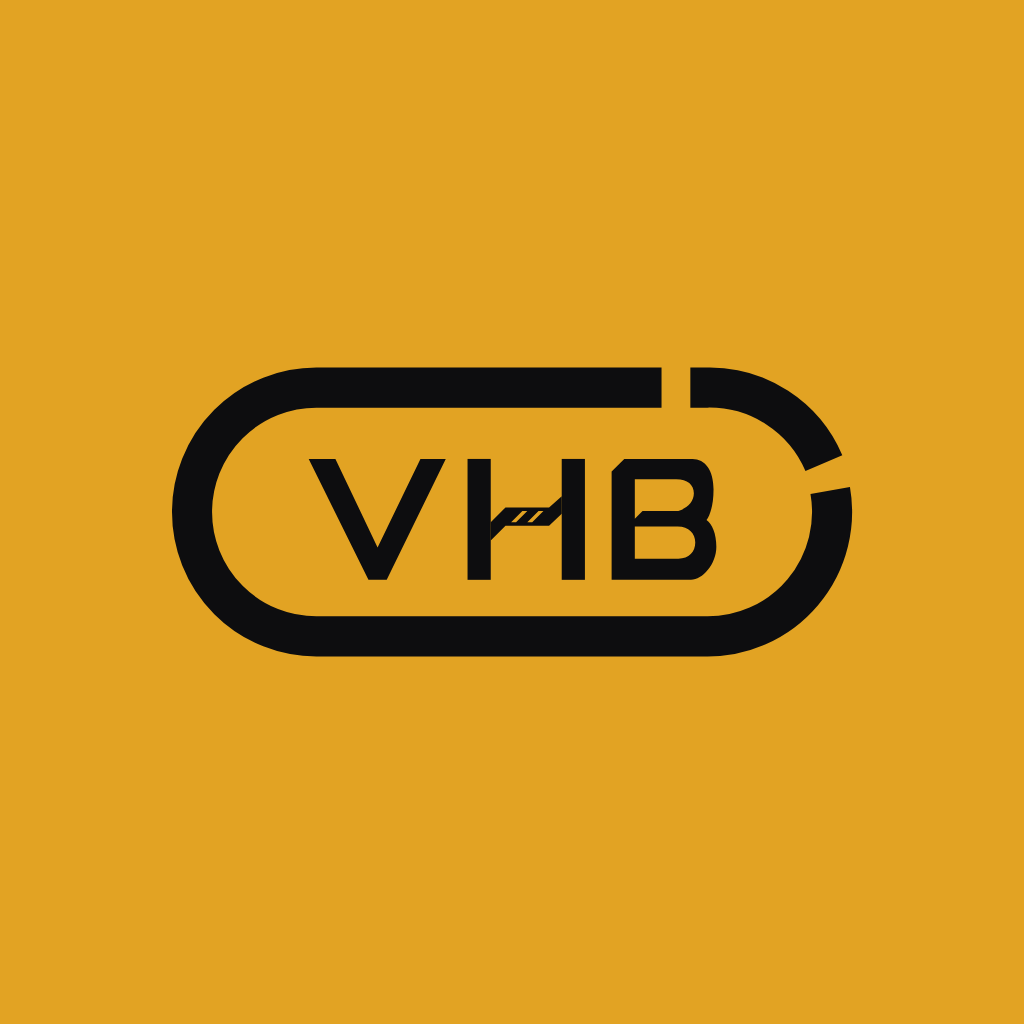
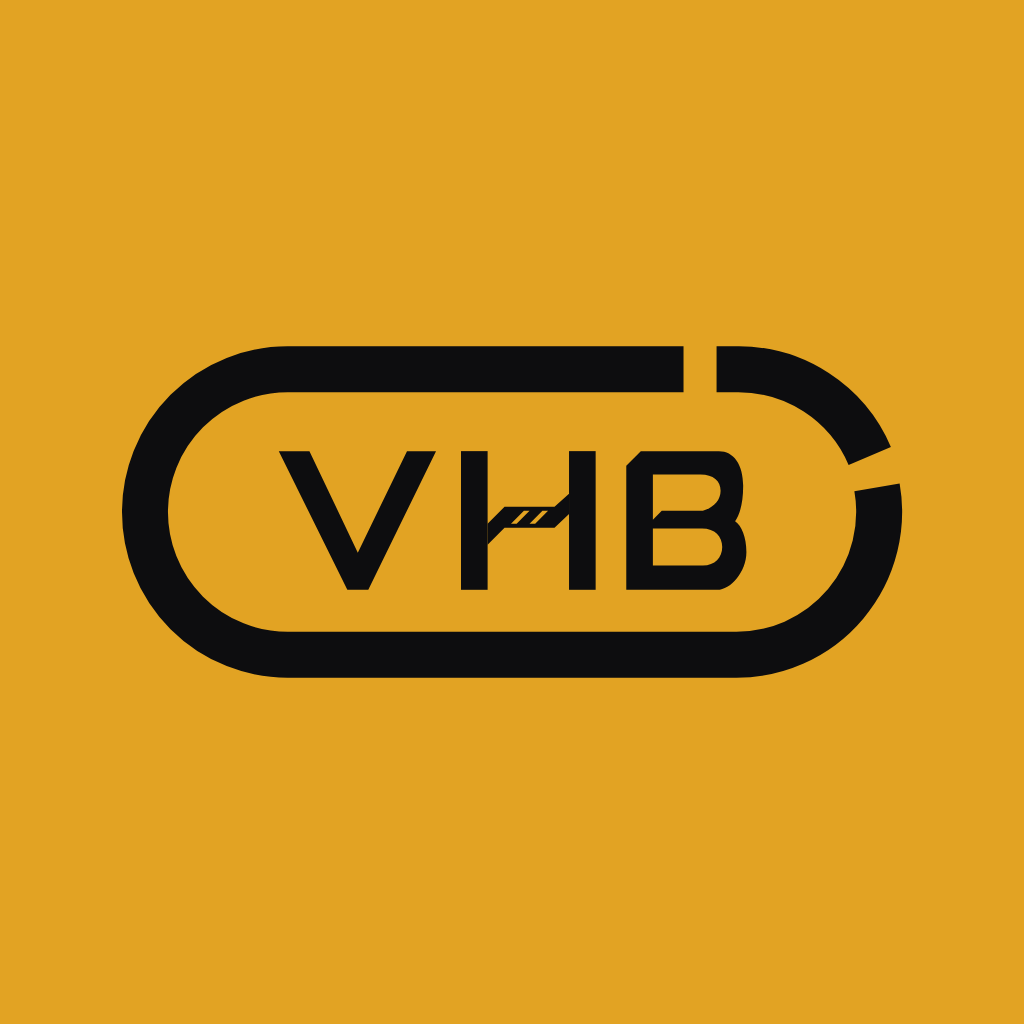
Puntjes 04-09: instellingen-rij, bel-icoon vóór de naam, geen lichte flits, nu-wijzer op de rail, groter app-icoon
1. Instellingen (mobiel): lang e-mailadres liep onder "Wachtwoord wijzigen"
   door — rij wikkelt nu (knop zakt eronder), tekst mag breken.
2. Vandaag-ingepland-lijst: bel-icoon in een vaste kolom vóór de naam, ook
   een lege kolom zonder nummer — alles uitgelijnd i.p.v. per naamlengte.
3. Start: zonder expliciete themakeuze begint de app met het laatst
   effectieve thema (rol-standaard donker) i.p.v. 'light' te forceren en
   de dark-klasse van het bootscript weg te halen tot het profiel er was.
4. Mijn dag: nu-markering is een kort gouden streepje op de rail (wijzer)
   met een fijne streepjesschaal langs het lopende blok en het "nu"-venster
   als lipje over de rechterrand; geen lijn meer dwars door de rij.
5. App-icoon: beeldmerk 760 → 880 op de 1024-tegel (maskable 680 → 780).

Changed region(s): [[0.0938, 0.3125, 0.9062, 0.6875]]

diff --git a/src/views/MijnDagView.tsx b/src/views/MijnDagView.tsx
@@ -236,14 +236,19 @@ export function MijnDagView({
               const pct = nuPct(rij);
               const eersteRij = i === 0;
               const laatsteRij = i === rijen.length - 1;
+              // Nu-markering (Jarno 04-09): geen lijn dwars door de rij, maar
+              // een kort gouden streepje op de rail (de wijzer op een
+              // radio-schaal) en het "nu"-venster als lipje óver de
+              // rechterrand van de kaart. De rail van het lopende blok krijgt
+              // een fijne streepjesschaal, zie hieronder.
               const nuLijn = pct !== null && (
                 <span
                   aria-hidden="true"
-                  className="pointer-events-none absolute inset-x-0 z-10 flex -translate-y-1/2 items-center gap-2"
+                  className="pointer-events-none absolute inset-x-0 z-10 flex -translate-y-1/2 items-center"
                   style={{ top: `${pct}%` }}
                 >
-                  <span className="h-0.5 flex-1 bg-oker-500" />
-                  <span className="mr-4 rounded-full bg-oker-500 px-2 py-0.5 text-2xs font-bold tabular-nums text-slate-950">
+                  <span className="ml-5 h-0.5 w-5 -translate-x-1 rounded-full bg-oker-500" />
+                  <span className="ml-auto -mr-2 rounded-full bg-oker-500 px-2 py-0.5 text-2xs font-bold tabular-nums text-slate-950 shadow-sm">
                     nu {nuLabel}
                   </span>
                 </span>
@@ -280,6 +285,16 @@ export function MijnDagView({
                       Gereden blokken dempen hun inhoud, niet de nu-lijn erover. */}
                   <span className={cn('relative flex w-3 shrink-0 justify-center', gereden && 'opacity-60')}>
                     <span className={cn('absolute left-1/2 w-px bg-slate-200', eersteRij && laatsteRij && 'hidden', eersteRij ? 'top-4' : 'top-0', laatsteRij ? 'h-4' : 'bottom-0')} />
+                    {/* Streepjesschaal (radio-wijzerplaat) langs het lopende blok:
+                        elke streep = een stukje dienst, de gouden wijzer schuift
+                        erlangs. Alleen decoratie; de voortgang zelf staat in de
+                        progressbar hieronder. */}
+                    {bezig && (
+                      <span
+                        className="absolute inset-y-4 left-1/2 w-2 -translate-x-1/2 opacity-70"
+                        style={{ backgroundImage: 'repeating-linear-gradient(to bottom, var(--color-slate-300) 0 1px, transparent 1px 7px)' }}
+                      />
+                    )}
                     <span
                       className={cn(
                         'relative mt-2.5 h-3 w-3 shrink-0 rounded-full',

diff --git a/src/views/PlannerDashboardWidgets.tsx b/src/views/PlannerDashboardWidgets.tsx
@@ -1254,22 +1254,26 @@ function DriverShiftRows({ items, emptyText }: { items: { id: string; name: stri
     <ul className="space-y-0.5">
       {items.map((d) => (
         <li key={d.id} className="flex items-center gap-3 rounded-xl px-3 py-2">
+          {/* Bel-icoon vóór de naam in een vaste kolom: achter de naam
+              sprong het per naamlengte heen en weer (Jarno 04-09). Zonder
+              nummer blijft de kolom leeg zodat de namen uitgelijnd blijven.
+              Klein tel-doelwit met marge-compensatie zodat de rij niet
+              hoger wordt (vraag Jarno 01-09). */}
+          {d.phone ? (
+            <a
+              href={telHref(d.phone)}
+              aria-label={`Bel ${d.name}`}
+              title={d.phone}
+              className="-my-1.5 -ml-1.5 inline-flex h-8 w-8 shrink-0 items-center justify-center self-start rounded-lg text-slate-400 transition-colors hover:bg-slate-100/80 hover:text-oker-700"
+            >
+              <Phone size={14} />
+            </a>
+          ) : (
+            <span aria-hidden="true" className="-ml-1.5 h-8 w-8 shrink-0" />
+          )}
           <span className="min-w-0 flex-1">
             <span className="flex items-center gap-1.5">
               <span className="truncate text-sm font-semibold text-slate-800">{d.name}</span>
-              {/* Meteen kunnen bellen (ziekmelding komt telefonisch binnen):
-                  klein tel-doelwit, met marge-compensatie zodat de rij niet
-                  hoger wordt (vraag Jarno 01-09). */}
-              {d.phone && (
-                <a
-                  href={telHref(d.phone)}
-                  aria-label={`Bel ${d.name}`}
-                  title={d.phone}
-                  className="-my-1.5 inline-flex h-8 w-8 shrink-0 items-center justify-center rounded-lg text-slate-400 transition-colors hover:bg-slate-100/80 hover:text-oker-700"
-                >
-                  <Phone size={14} />
-                </a>
-              )}
             </span>
             {/* Elk dienstblok als eigen element, met een stip ertussen en
                 flex-wrap: bij één of twee blokken staat het op één regel zoals

diff --git a/src/App.tsx b/src/App.tsx
@@ -358,13 +358,20 @@ export default function App() {
   const themaGekozenRef = useRef(false);
   useEffect(() => {
     let stored: string | null = null;
+    let effectief: string | null = null;
     try {
       stored = typeof window !== 'undefined' ? window.localStorage.getItem('vhb-theme') : null;
+      effectief = typeof window !== 'undefined' ? window.localStorage.getItem('vhb-theme-effectief') : null;
     } catch {
       // localStorage geblokkeerd (privacy-modus) — val terug op licht.
     }
     themaGekozenRef.current = stored === 'dark' || stored === 'light';
-    const initial: 'light' | 'dark' = stored === 'dark' || stored === 'light' ? stored : 'light';
+    // Zonder expliciete keuze: begin met wat er de vorige keer effectief
+    // stond (de rol-standaard van planner/admin = donker). Het bootscript in
+    // index.html zette dat al vóór de eerste paint; hier 'light' forceren
+    // haalde de dark-klasse weer weg tot het profiel binnen was — vandaar de
+    // lichte flits van skeleton naar dashboard (Jarno 04-09).
+    const initial: 'light' | 'dark' = stored === 'dark' || stored === 'light' ? stored : effectief === 'dark' ? 'dark' : 'light';
     setTheme(initial);
     if (typeof document !== 'undefined') {
       document.documentElement.classList.toggle('dark', initial === 'dark');

diff --git a/src/views/InstellingenView.tsx b/src/views/InstellingenView.tsx
@@ -12,13 +12,16 @@ import type { User, View } from '../types';
  */
 function Rij({ icoon, titel, uitleg, rechts }: { icoon: React.ReactNode; titel: string; uitleg: string; rechts: React.ReactNode }) {
   return (
-    <div className="flex items-start gap-3 py-3.5 first:pt-0 last:pb-0 border-b last:border-b-0 border-slate-100">
+    // flex-wrap + min-w op de tekst: op een smal scherm (lang e-mailadres
+    // naast "Wachtwoord wijzigen") zakt de knop onder de tekst i.p.v. dat de
+    // tekst eronder doorloopt (Jarno 04-09). break-words als extra vangnet.
+    <div className="flex flex-wrap items-start gap-3 py-3.5 first:pt-0 last:pb-0 border-b last:border-b-0 border-slate-100">
       <span className="mt-0.5 inline-flex h-8 w-8 shrink-0 items-center justify-center rounded-lg bg-slate-500/12 text-slate-600">{icoon}</span>
-      <div className="min-w-0 flex-1">
+      <div className="min-w-[11rem] flex-1 basis-0">
         <p className="text-sm font-semibold text-slate-900">{titel}</p>
-        <p className="mt-0.5 text-sm text-slate-500 leading-relaxed">{uitleg}</p>
+        <p className="mt-0.5 break-words text-sm text-slate-500 leading-relaxed">{uitleg}</p>
       </div>
-      <div className="shrink-0 pt-0.5">{rechts}</div>
+      <div className="ml-auto shrink-0 pt-0.5">{rechts}</div>
     </div>
   );
 }
